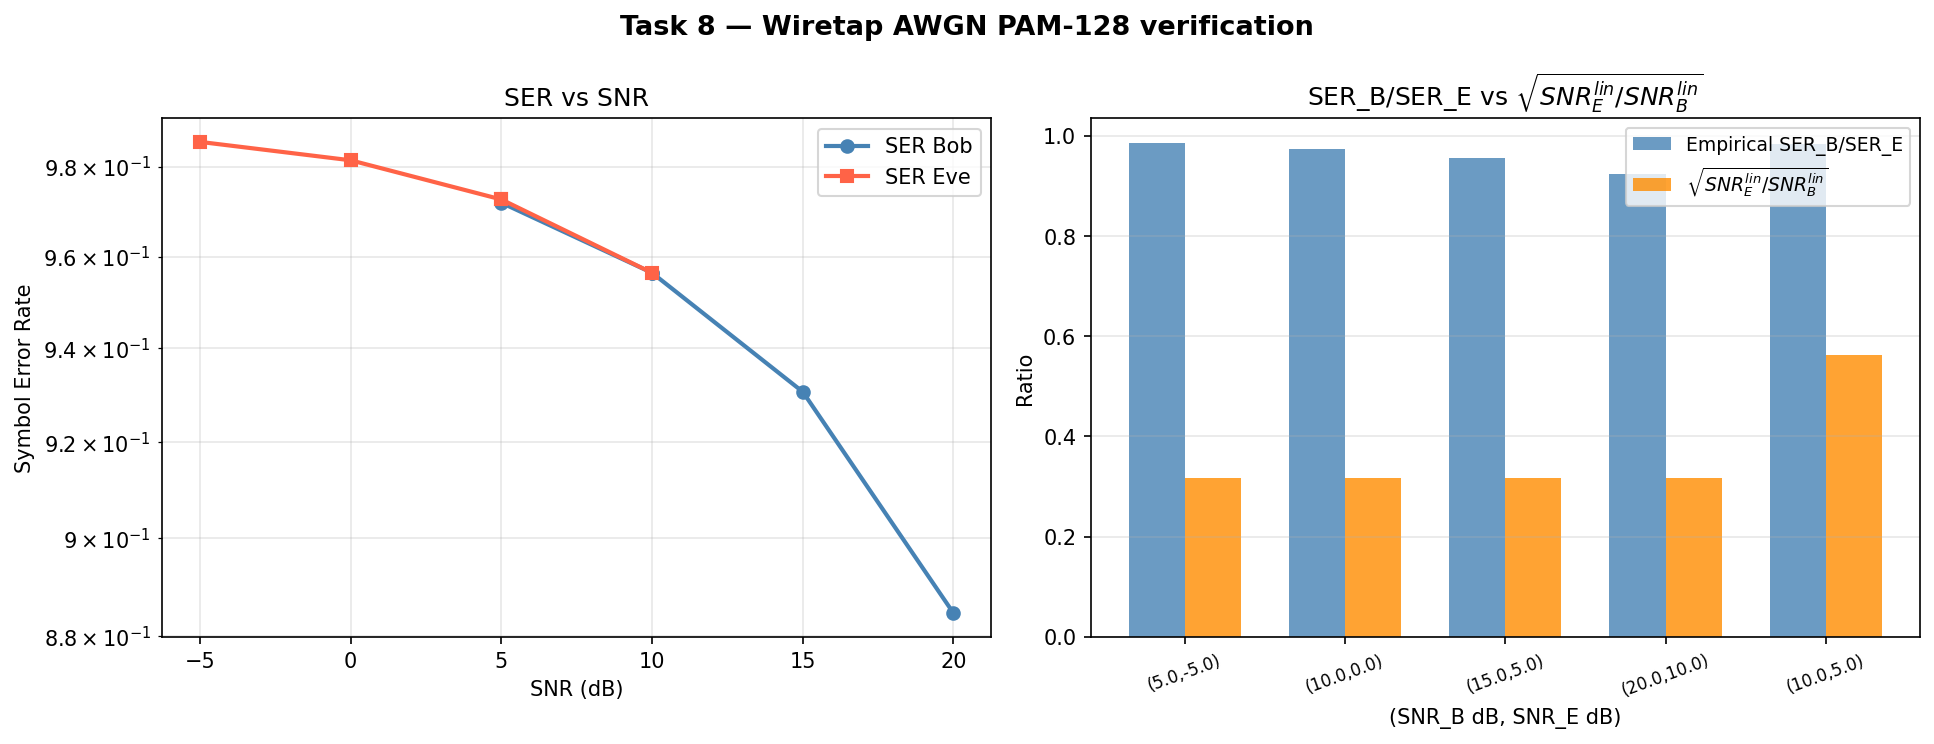
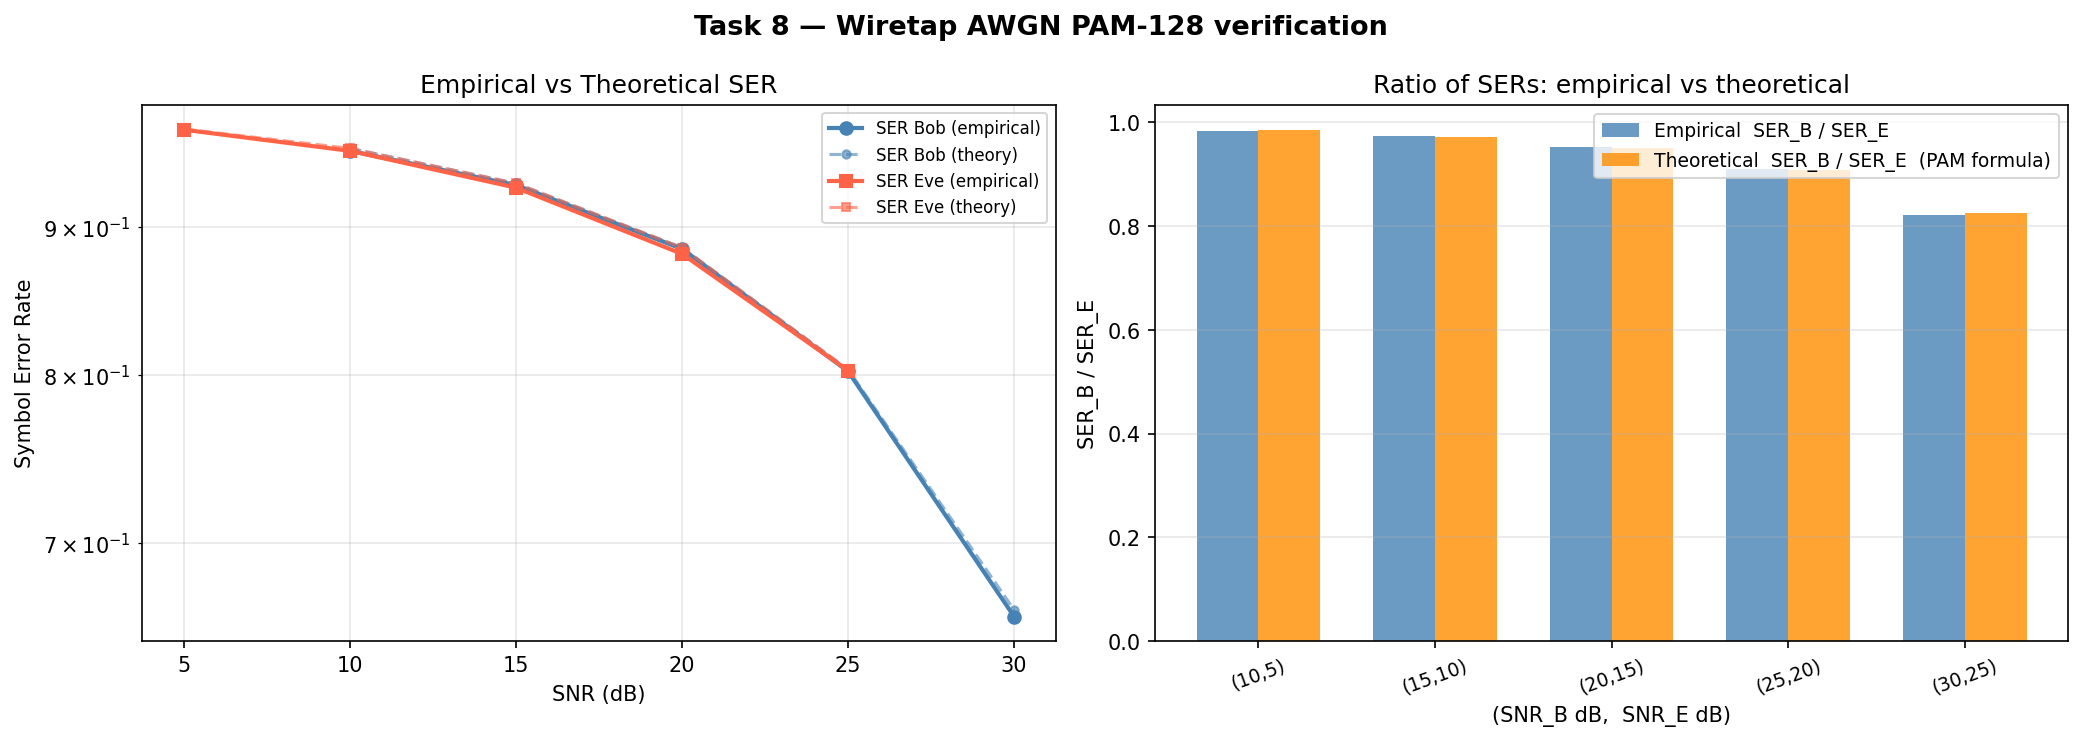
Risolto errore grafico sul task 8

diff --git a/Task8.py b/Task8.py
@@ -2,6 +2,7 @@
 
 import numpy as np
 import matplotlib.pyplot as plt
+from scipy.special import erfc
 
 # ── PAM-M modulator / demodulator ─────────────────────────────────────────────
 
@@ -118,94 +119,121 @@ class WiretapAWGN:
 
 # ── Verification ──────────────────────────────────────────────────────────────
 
+def ser_pam_theory(M: int, snr_lin: float) -> float:
+    """
+    Theoretical SER for PAM-M with normalised unit symbol power.
+
+    SER = 2*(1 - 1/M) * Q( sqrt(3*SNR / (M²-1)) )
+        = (1 - 1/M) * erfc( sqrt( 3*SNR / (2*(M²-1)) ) )
+
+    This is exact for equally-spaced PAM with unit average power.
+    """
+    arg = np.sqrt(3.0 * snr_lin / (2.0 * (M ** 2 - 1)))
+    return 2.0 * (1.0 - 1.0 / M) * 0.5 * erfc(arg)
+
+
 def verify_channel(n_symbols: int = 2 ** 14):
     """
-    Verify the AWGN channel by checking that the ratio of symbol error rates
-    approximates sqrt(SNR_B_lin / SNR_E_lin).
+    Verify the AWGN channel implementation.
 
-    For high SNR and PAM the dominant error is a nearest-neighbour error, so
-    SER ≈ 2 · Q(d_min / (2σ)).  When comparing two SNRs at the same point
-    on the Q-curve:
-        SER_B / SER_E ≈ sqrt(SNR_E_lin / SNR_B_lin)
-    (Bob has smaller sigma → fewer errors).
-
-    The handout asks to compare the *ratio* of average symbol errors to
-    sqrt(SNR_B_lin / SNR_E_lin); we therefore report both quantities.
+    Two checks are performed:
+    1. Empirical SER_B and SER_E match the theoretical PAM-M SER formula.
+    2. The ratio SER_B / SER_E (empirical) matches the ratio of the two
+       theoretical SERs — this is the exact version of the handout's
+       sqrt(SNR_B / SNR_E) approximation, valid for all SNR regimes.
     """
 
     test_pairs_db = [
-        ( 5.0, -5.0),
-        (10.0,  0.0),
-        (15.0,  5.0),
-        (20.0, 10.0),
         (10.0,  5.0),
+        (15.0, 10.0),
+        (20.0, 15.0),
+        (25.0, 20.0),
+        (30.0, 25.0),
     ]
 
     print("\nTask 8 — Wiretap AWGN channel verification")
     print(f"  M = 2^7 = 128 PAM symbols,  N = {n_symbols} symbols per experiment\n")
-    header = (f"{'SNR_B (dB)':>11} {'SNR_E (dB)':>11} | "
-              f"{'SER_B':>9} {'SER_E':>9} | "
-              f"{'SER_B/SER_E':>12} {'√(SNR_E/SNR_B)':>15}")
+    header = (f"{'SNR_B':>7} {'SNR_E':>7} | "
+              f"{'SER_B emp':>10} {'SER_B th':>10} | "
+              f"{'SER_E emp':>10} {'SER_E th':>10} | "
+              f"{'ratio emp':>10} {'ratio th':>10}")
     print(header)
     print("-" * len(header))
 
     snrb_list, snre_list = [], []
     ser_b_list, ser_e_list = [], []
+    ser_b_th_list, ser_e_th_list = [], []
     ratio_emp_list, ratio_th_list = [], []
 
     for snrb_db, snre_db in test_pairs_db:
         ch = WiretapAWGN(snrb_db, snre_db)
 
-        # Random symbols uniformly in {0, …, 127}
+        # Random symbols uniformly in {0, …, M-1}
         x_int = ch.rng.integers(0, ch.mod.M, size=n_symbols)
         y_int, z_int = ch.transmit(x_int)
 
+        # Empirical SER
         ser_b = float(np.mean(x_int != y_int))
         ser_e = float(np.mean(x_int != z_int))
 
+        # Theoretical SER using exact PAM formula
         snrb_lin = 10 ** (snrb_db / 10.0)
         snre_lin = 10 ** (snre_db / 10.0)
-        ratio_th  = np.sqrt(snre_lin / snrb_lin)   # theoretical ≈ SER_B/SER_E
-        ratio_emp = (ser_b / ser_e) if ser_e > 0 else float('inf')
+        ser_b_th = ser_pam_theory(ch.mod.M, snrb_lin)
+        ser_e_th = ser_pam_theory(ch.mod.M, snre_lin)
 
-        snrb_list.append(snrb_db);  snre_list.append(snre_db)
-        ser_b_list.append(ser_b);   ser_e_list.append(ser_e)
+        # Ratio: empirical vs theoretical (exact)
+        ratio_emp = (ser_b / ser_e) if ser_e > 0 else float('inf')
+        ratio_th  = (ser_b_th / ser_e_th) if ser_e_th > 0 else float('inf')
+
+        snrb_list.append(snrb_db);      snre_list.append(snre_db)
+        ser_b_list.append(ser_b);       ser_e_list.append(ser_e)
+        ser_b_th_list.append(ser_b_th); ser_e_th_list.append(ser_e_th)
         ratio_emp_list.append(ratio_emp); ratio_th_list.append(ratio_th)
 
-        print(f"{snrb_db:>11.1f} {snre_db:>11.1f} | "
-              f"{ser_b:>9.5f} {ser_e:>9.5f} | "
-              f"{ratio_emp:>12.4f} {ratio_th:>15.4f}")
+        print(f"{snrb_db:>7.1f} {snre_db:>7.1f} | "
+              f"{ser_b:>10.5f} {ser_b_th:>10.5f} | "
+              f"{ser_e:>10.5f} {ser_e_th:>10.5f} | "
+              f"{ratio_emp:>10.4f} {ratio_th:>10.4f}")
 
-    # ── Plot ─────────────────────────────────────────────────────────────────
-    fig, axes = plt.subplots(1, 2, figsize=(13, 5))
+    # ── Plots ─────────────────────────────────────────────────────────────────
+    fig, axes = plt.subplots(1, 2, figsize=(14, 5))
     fig.suptitle("Task 8 — Wiretap AWGN PAM-128 verification", fontsize=13, fontweight="bold")
 
-    # Left: SER vs SNR (Bob and Eve)
+    # Left: empirical SER vs theoretical SER for Bob and Eve
     ax = axes[0]
-    snrb_arr = np.array(snrb_list)
-    snre_arr = np.array(snre_list)
+    snrb_arr     = np.array(snrb_list)
+    snre_arr     = np.array(snre_list)
     sort_b = np.argsort(snrb_arr)
     sort_e = np.argsort(snre_arr)
     ax.semilogy(snrb_arr[sort_b], np.array(ser_b_list)[sort_b],
-                'o-', color='steelblue', lw=2, ms=6, label="SER Bob")
+                'o-', color='steelblue', lw=2, ms=6, label="SER Bob (empirical)")
+    ax.semilogy(snrb_arr[sort_b], np.array(ser_b_th_list)[sort_b],
+                'o--', color='steelblue', lw=1.5, ms=4, alpha=0.6, label="SER Bob (theory)")
     ax.semilogy(snre_arr[sort_e], np.array(ser_e_list)[sort_e],
-                's-', color='tomato',    lw=2, ms=6, label="SER Eve")
+                's-', color='tomato', lw=2, ms=6, label="SER Eve (empirical)")
+    ax.semilogy(snre_arr[sort_e], np.array(ser_e_th_list)[sort_e],
+                's--', color='tomato', lw=1.5, ms=4, alpha=0.6, label="SER Eve (theory)")
     ax.set_xlabel("SNR (dB)")
     ax.set_ylabel("Symbol Error Rate")
-    ax.set_title("SER vs SNR")
-    ax.legend(); ax.grid(True, which='both', alpha=0.3)
+    ax.set_title("Empirical vs Theoretical SER")
+    ax.legend(fontsize=8); ax.grid(True, which='both', alpha=0.3)
 
-    # Right: empirical ratio vs theoretical ratio
+    # Right: ratio SER_B/SER_E empirical vs theoretical (exact PAM formula)
     ax2 = axes[1]
     x_ax = np.arange(len(test_pairs_db))
     width = 0.35
-    ax2.bar(x_ax - width/2, ratio_emp_list, width, label="Empirical SER_B/SER_E", color='steelblue', alpha=0.8)
-    ax2.bar(x_ax + width/2, ratio_th_list,  width, label=r"$\sqrt{SNR_E^{lin}/SNR_B^{lin}}$", color='darkorange', alpha=0.8)
+    ax2.bar(x_ax - width/2, ratio_emp_list, width,
+            label="Empirical  SER_B / SER_E", color='steelblue', alpha=0.8)
+    ax2.bar(x_ax + width/2, ratio_th_list, width,
+            label="Theoretical  SER_B / SER_E  (PAM formula)",
+            color='darkorange', alpha=0.8)
     ax2.set_xticks(x_ax)
-    ax2.set_xticklabels([f"({b},{e})" for b, e in test_pairs_db], rotation=20, fontsize=8)
-    ax2.set_xlabel("(SNR_B dB, SNR_E dB)")
-    ax2.set_ylabel("Ratio")
-    ax2.set_title(r"SER_B/SER_E vs $\sqrt{SNR_E^{lin}/SNR_B^{lin}}$")
+    ax2.set_xticklabels([f"({b:.0f},{e:.0f})" for b, e in test_pairs_db],
+                        rotation=20, fontsize=9)
+    ax2.set_xlabel("(SNR_B dB,  SNR_E dB)")
+    ax2.set_ylabel("SER_B / SER_E")
+    ax2.set_title("Ratio of SERs: empirical vs theoretical")
     ax2.legend(fontsize=9); ax2.grid(axis='y', alpha=0.3)
 
     plt.tight_layout()
